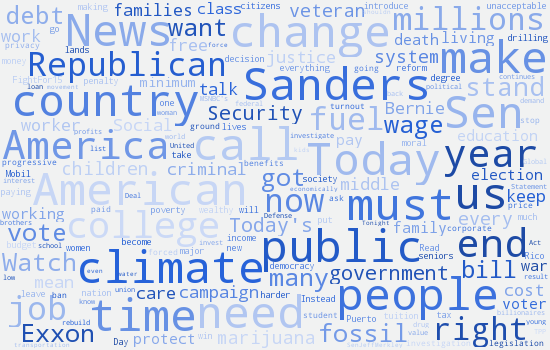
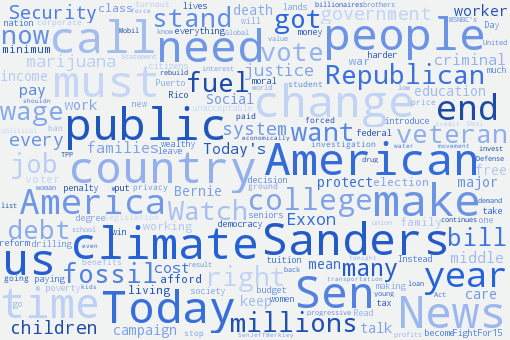
css improvements, changed wordcloud size

diff --git a/static/min.css b/static/min.css
@@ -10,10 +10,10 @@ body li {
     list-style-type: none;
 }
 
-#navbar {
+/*#navbar {
 	position: absolute;
 	top: 273px;
-}
+}*/
 
 #container {
 	text-align: center;
@@ -22,20 +22,20 @@ body li {
 }
 
 img.left_star {
-	display: inline;
+	display: inline-block;
+	text-align:left;
 	height: 25px;
 	width: 25px;
-	position: relative;
-	left: -320px;
-	top: 20px;
+	margin-right: 10px;
 }
 
 img.right_star {
+	display: inline;
+	text-align: right;
+	margin-left: 7px;
+
 	height: 25px;
 	width: 25px;
-	position: relative;
-	left: 310px;
-	top: -18px;
 }
 
 
@@ -44,7 +44,7 @@ header {
 	margin-top: 0;
 	padding-top: 30px;
 	text-align: center !important;
-	border-bottom: solid #221F73 70px;
+/*	border-bottom: solid #221F73 70px;*/
 
 }
 
@@ -56,7 +56,8 @@ header h1 {
 	font-family: 'Roboto Condensed', sans-serif;
 	font-weight: 400;
 	letter-spacing: 5px;
-	line-height: 8px;
+	display: inline-block;
+	/*line-height: 8px;*/
 }
 
 header h2 {
@@ -64,7 +65,7 @@ header h2 {
 	font-weight: bold;
 	font-size: 32px;
 	color: #C6282E;
-	line-height: 1px;
+	/*line-height: 1px;*/
 	font-family: 'Roboto Condensed', sans-serif;
 	font-weight: 700;
 	letter-spacing: 4px;
@@ -74,8 +75,8 @@ header h2 {
 header p {
 	font-size: 16px;
 	color: #87898B;
-	padding-top: 30px;
-	padding-bottom: 50px;
+	padding-top: 10px;
+	padding-bottom: 40px;
 	min-width:200px;
     max-width: 600px;
     text-align: center;
@@ -85,23 +86,24 @@ header p {
 }
 
 header ul {
-	min-width: 200px;
-	/*max-width: 785px;*/
+	margin-top: 5px;
+	padding: 20px;
 	font-weight: bold;
-	font-size: 14px;
-	/*background: #221F73;*/
+	font-size: 13px;
+	background: #221F73;
 
 }
 
 header li {
 	padding: 20px;
-	line-height: 23px;
+	line-height: 30px;
+	letter-spacing: 2px;
+	font-size: 16px;
 }
 
 header a {
 	text-decoration: none;
 	color: white;
-	font-family: 
 }
 
 header a:hover {
@@ -144,30 +146,30 @@ img.social_media {
 	width: 30px;
 }
 
-h3 {
-    font-family: Gotham, Arial, sans-serif;
-	font-weight: bold;
-	font-size: 24px;
-}
-
 h3.rep {
 	color: #C6282E;
 	line-height: 5px;
 	margin-bottom: 12px;
+	font-size: 21px;
+	font-weight: 700;
 }
 
 h3.dem {
 	color: #221F73;
 	line-height: 5px;
 	margin-bottom: 12px;
+	font-size: 21px;
+	font-weight: 700;
+
 }
 
 h4 {
 	color: #87898B;
-	font-size: 15px;
+	font-size: 14px;
 	font-weight: normal;
 	margin-top: 0;
 }
+
 a.candidate_links {
 	color: #87898B;
 	text-decoration: none;

diff --git a/make_wordclouds.py b/make_wordclouds.py
@@ -80,7 +80,7 @@ for c in candidates:
 		background_color = "white"
 	else:
 		background_color = "#F1F2F2"
-	wordcloud = WordCloud(background_color=background_color, margin=1, max_font_size=45, max_words=175, width=550, height=350, prefer_horizontal=1.0, stopwords=STOPWORDS)
+	wordcloud = WordCloud(background_color=background_color, margin=1, max_font_size=45, max_words=175, width=510, height=340, prefer_horizontal=1.0, stopwords=STOPWORDS)
 	wordcloud.generate(text)
 	if c.party == 'Republican Party':
 		print c.party
